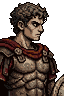
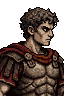
T65: pele quente em Bento e Teresinha, livro no exorcismo do Bento, lança erguida no milagre de Jorge, auréolas alinhadas (D-388)
Claude-Session: https://claude.ai/code/session_01DUWuezvzjAUhnjSiedgYuQ

diff --git a/tools/art/import_pixel.py b/tools/art/import_pixel.py
@@ -89,6 +89,8 @@ class Character:
     # Halo point measured on the figure cut to its outline (06-rumo-pixel §9):
     # x and y from the top-left of the figure, and the diameter.
     halo: tuple[float, float, float] | None
+    # Every clip of the character gets the warm skin (D-388).
+    warm: bool = False
     clips: list["Clip"] = field(default_factory=list)
 
 
@@ -136,6 +138,8 @@ def read_characters() -> list[Character]:
             )
     with CLIPS_CSV.open(encoding="utf-8") as f:
         for row in csv.DictReader(f):
+            if "warm_skin" in row["cleanup"] and row["character"] in chars:
+                chars[row["character"]].warm = True
             if row["character"] not in chars:
                 raise SystemExit(f"{CLIPS_CSV.name}: personagem sem linha em {CHARACTERS_CSV.name}: {row['character']}")
             chars[row["character"]].clips.append(Clip(
@@ -302,10 +306,41 @@ def clean(clip: Clip, char: Character, colours: np.ndarray,
         report["meio-tom"] += binarize(cell)
         if "white_arc" in clip.cleanup:
             report["arco"] += erase_white_arc(cell, idle_colours)
+        if "warm_skin" in clip.cleanup:
+            report["pele"] = report.get("pele", 0) + warm_skin(cell, clip.character)
         for token in clip.cleanup:
             if token.startswith("specks="):
                 report["soltos"] += erase_specks(cell, int(token.split("=")[1]))
     return _finish(cells, clip, char, colours, report)
+
+
+# The warm skin of Saint George (D-388): Bento and Teresinha in the new style
+# came out greyish or pink; their skin tones are taken to this ramp by light.
+# The warm skin of Saint George (D-388): each skin colour of the new
+# drawings of Bento and Teresinha (measured on the face) becomes one of the
+# palette colours of George's skin, the habit, the cloak and the veil keep
+# their own colours.
+SKIN_MAP = {
+    "saint_benedict": {"#C8B396": "#C4A98D", "#A4927D": "#9A745A", "#8F7F6C": "#9A745A",
+                       "#826E58": "#765B47", "#6F5C4A": "#765B47"},
+    "saint_therese": {"#DABBA5": "#C4A98D", "#C6A691": "#C4A98D", "#A08371": "#9A745A",
+                      "#836A5C": "#765B47", "#5D4439": "#553327"},
+}
+
+
+def warm_skin(cell: np.ndarray, character: str) -> int:
+    """The skin colours of `character` become George's; returns how many
+    pixels changed."""
+    changed = 0
+    rgb = cell[:, :, :3].astype(np.int32)
+    opaque = cell[:, :, 3] == 255
+    for source, target in SKIN_MAP.get(character, {}).items():
+        src = [int(source[k:k + 2], 16) for k in (1, 3, 5)]
+        dst = [int(target[k:k + 2], 16) for k in (1, 3, 5)]
+        hit = opaque & (np.abs(rgb - src).sum(axis=2) <= 6)
+        cell[:, :, :3][hit] = dst
+        changed += int(hit.sum())
+    return changed
 
 
 def shrink(cell: np.ndarray, scale: float) -> np.ndarray:
@@ -357,6 +392,8 @@ def write_bust(char: Character, cell: np.ndarray, colours: np.ndarray) -> Path:
     enemy sheet (the figures on the field are shrunk, D-384)."""
     full = cell.copy()
     binarize(full)
+    if char.warm:
+        warm_skin(full, char.id)
     if char.palette == "snap":
         snap_to_palette(full, colours)
     x0, y0, x1, _ = outline(full)

diff --git a/docs/memory/decisions.md b/docs/memory/decisions.md
@@ -310,4 +310,5 @@ Formato: **D-número · data · quem** — decisão. *Onde está aplicada.*
 - **D-385 · 15/11/2026 · agente (lista liberada por Alan em D-384)** — Arte gerada no PixelLab, toda guardada em `art_source/**/pixel/` e já no jogo, para Alan revisar de uma vez: (1) **Moscardo, Sopro Errante, Mãe-Enxame e Enxame** parados (`create_image_pro`, pintado como referência, 10 cada) e com clipes (4 quadros, 1 cada); **Diabo de Lodo e Sombra** com clipes. Poses seguras: os quadros com arco e respingos ficam de fora (Sopro sem queda, que não dissolveu: some pelo motor; Enxame sem guarda; Diabo de Lodo mantém o parado do piloto, porque o clipe parado saiu riscado; Sombra usa o "preparar" ondulante como parado). (2) **Corredor e Pouso por conversão** (`image_to_pixelart` fiel, 1 cada, com o contorno do pintado): entradas porta, caverna, escada e passagem (v02 do Drive), tenda v03, relicário fechado e aberto, as 3 almas e o Pouso v03 em 960 × 405 (ainda não usado: a tela do Pouso é antiga). Na caminhada as entradas, a tenda, o relicário e as almas substituem os blocos e recebem o filtro do círculo; a frente da caminhada desce 215. (3) **Interface**: folha da lanterna (apagada, acesa, haste com marcas) e folha do óculo (normal e rachado), garra do Domínio (viva e morta) e botão (dois estados); no combate a lanterna acesa desce a haste desenhada e as intenções ficam no óculo (rachado quando há dano). (4) **29 ícones** (`create_image_pixen`, 1 cada; 10 refeitos) e a folha das **ações** (9 de 10: Levantar e Deslocar saíram num ícone só). Ícones em pixel têm prioridade sobre os pintados (`HudStyle.icon`). Fracos ainda: condição "guarda" e ação "Passar". Gasto do lote: 149 gerações; saldo 1.545. *`tools/art/import_pixel_static.py`, `pixel_clips.csv`, `walk_screen.gd`, `battle_screen.gd`, `combatant_badge.gd`, `hud_style.gd`.*
 - **D-386 · 15/11/2026 · Alan e agente** — Revisão de Alan da arte de D-385: aprovada com comentários. Aplicado: (1) **Diabo de Lodo** refeito sem a sombra cinza (vinha do clipe anterior): parado com `animate_image` (4 gerações, respira sem riscos), preparar, **golpe com as garras** e **golpe com a boca da barriga** como poses desenhadas por `edit_image_pixen` (1 cada) a partir do parado aprovado; os dois golpes **se alternam** (`strike_alt`, só apresentação); guarda e queda mantidas. (2) **Sombra do Desejo** não avança: o golpe dela vira luz roxa em volta do alvo, como a Vertigem (`attack_style = outline`). (3) **Queda de Minos** (pose final de um clipe de 4 quadros). (4) Ícones: guarda (escudo redondo) e Passar (ampulheta) escolhidos de 64 opções `create_image_pro` 32 × 32 (10 cada); **Deslocar** em dois modelos (cinza e traço claro); espada da intenção de ataque **virada para cima**. (5) **Santos no estilo novo de Alan** (galeria, 15/11): rosto do Bento e da Teresinha refeito por `inpaint_image_pro_flash` (9 cada) com olhos claros e expressão serena (os originais de olhos pretos ficam para a Noite Escura); **Jorge** no mesmo estilo por `create_image_pro` (10) com o Jorge do piloto como referência. **Ainda não entram no jogo**: Alan escolhe pela comparação; aprovados, refazem-se as animações dos três. Gasto: ~52 gerações. *`pixel_clips.csv`, `pixel_characters.csv`, `combatant_view.gd`, `battle_screen.gd`, `art_source/characters/saints/*/pixel/*_still_v02.png`.*
 - **D-387 · 15/11/2026 · Alan** — Santos: **Jorge** fica o atual (o estilo novo quase não mudou); **Bento** no estilo novo **com os olhos escuros** (monge exorcista mais sério) e **com o corvo no ombro** (pedido de Alan; corvo levado do chão ao ombro por `edit_image_pixen`, 1 geração); **Teresinha** no estilo novo com o rosto refeito (olhos claros, serena). Os olhos pretos **não** servem para a Noite Escura (o editor refaz o rosto inteiro). Deslocar: o ícone **cinza**. Diabo de Lodo, Sombra, queda de Minos e ícones: aprovados. Animações novas (`animate_image_pixminimax`, 1 cada): Bento parado e andar (9 quadros), preparar, golpe, guarda e queda (o corvo levanta voo) em pose final; Teresinha parada e andar (9), preparar 4, crucifixo erguido 4, guarda 2, queda 4. Auréolas remedidas: Bento (60, 29), Teresinha (56, 24). Os 5 clipes do Bento sem o corvo (feitos antes do pedido) foram descartados. Saldo do PixelLab: 1.455. *`pixel_clips.csv`, `pixel_characters.csv`, `art_source/characters/saints/*/pixel/*_v02.png`.*
+- **D-388 · 15/11/2026 · Alan e agente** — Revisão de Alan: (1) "Jorge parece mais detalhado": conferido pelo agente, os três têm a **mesma resolução** (tela de 256, mesmo tamanho de pixel, mesma redução 0,6); a diferença é a pele quente e o contraste do Jorge. **Pele quente** sem gerar: na entrada, as cores de pele medidas no rosto do Bento e da Teresinha viram as cores da pele do Jorge na paleta (`SKIN_MAP`, só essas cores, para o hábito e o manto não mudarem). (2) **Exorcismo do Bento**: ergue o livro para a frente com uma mão (clipe `spell_strike`, pose por `edit_image_pixen`; o báculo some nessa pose curta). (3) **Milagre do Jorge**: ergue a lança ao alto antes de estocar (clipe `miracle_windup`, usado só quando a habilidade é o milagre). (4) **Auréolas** iguais à do Bento (aprovada): centro atrás da cabeça, aparecendo acima e atrás; Jorge (74, 17) e Teresinha (52, 18) a partir do canto do desenho. Gasto: 5 gerações (2 poses de livro descartadas). *`tools/art/import_pixel.py`, `pixel_clips.csv`, `pixel_characters.csv`, `combatant_view.gd`, `battle_screen.gd`.*
 - **D-308** — Simulador: formação do M0 Jorge (1), Bento (2), Teresinha (3); expedição longa simulada com 6 combates, Lume −5 por nó, Pousos com Vigília depois dos combates 2 e 4 e vida cheia a cada combate. *T13, `tools/sim/battle_simulator.gd`.*
